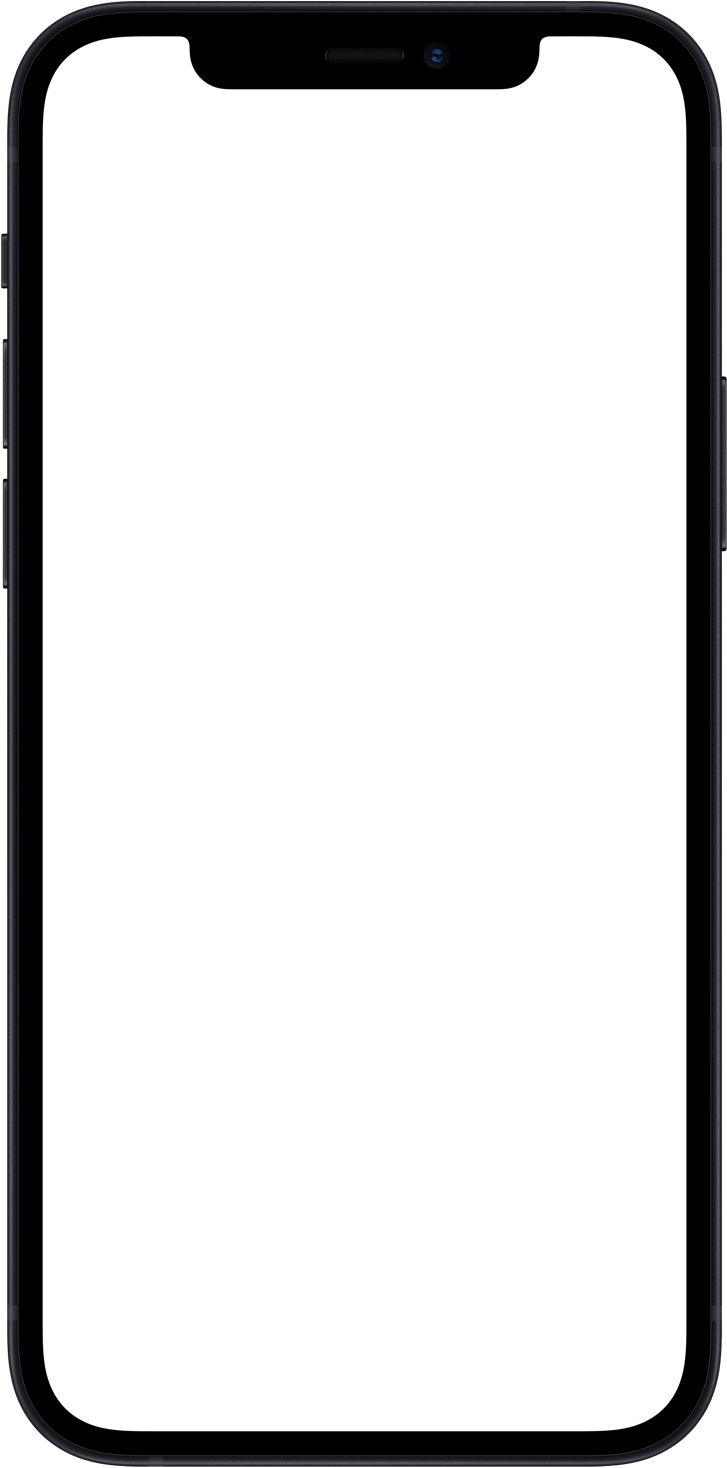
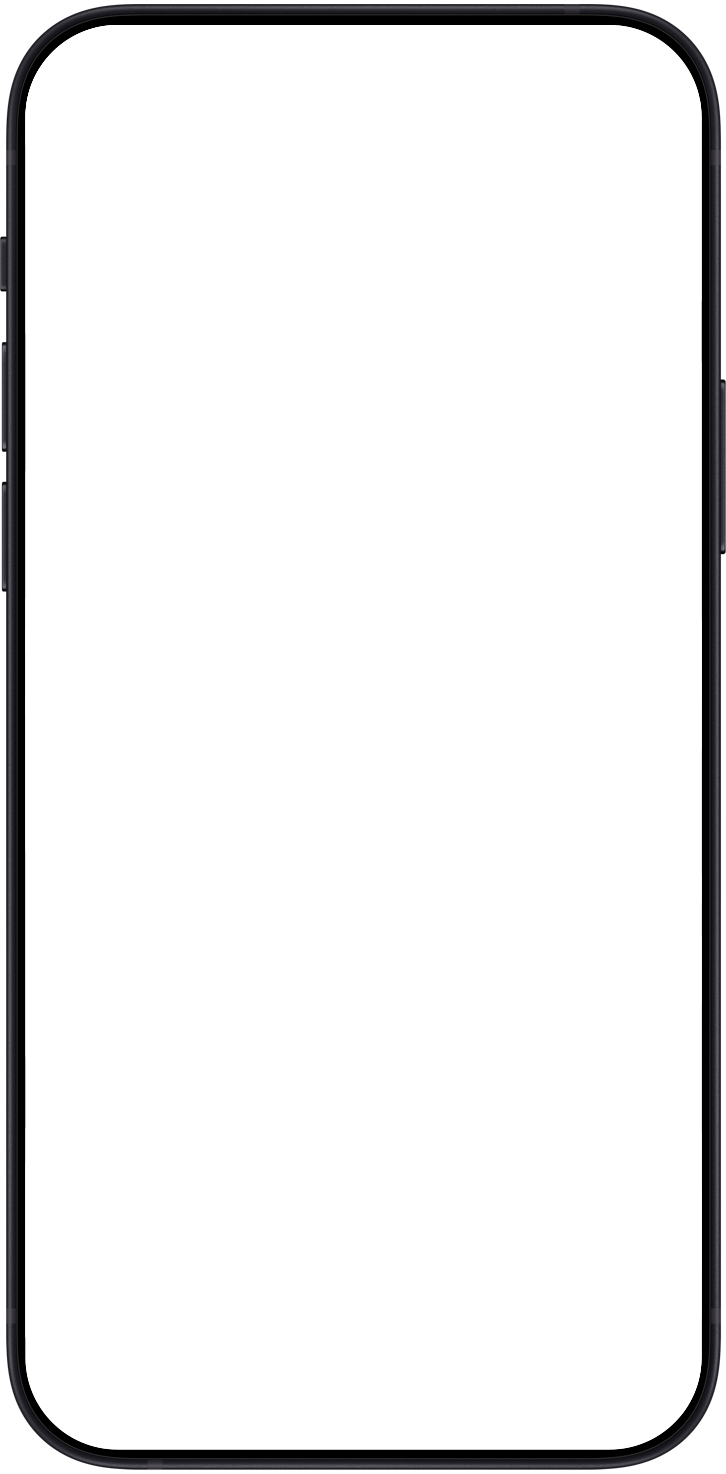
layout refine.

Changed region(s): [[0.0, 0.0, 0.9697, 1.0]]

diff --git a/lib/layout/layout.dart b/lib/layout/layout.dart
@@ -12,7 +12,7 @@ class Layout extends StatelessWidget {
       builder: (BuildContext context, BoxConstraints constraints) {
         if (isDisplayDesktop(context)) {
           return Container(
-            padding: EdgeInsets.all(30.0),
+            padding: EdgeInsets.all(constraints.maxHeight / 7.0),
             alignment: Alignment.center,
             decoration: BoxDecoration(
               image: DecorationImage(
@@ -26,9 +26,9 @@ class Layout extends StatelessWidget {
                 absorbIndex: 0,
                 children: <Widget>[
                   Padding(
-                    padding: EdgeInsets.all(constraints.maxHeight / 40.0),
+                    padding: EdgeInsets.all(constraints.maxHeight / 90.0),
                     child: ClipRRect(
-                      borderRadius: BorderRadius.all(Radius.circular(20.0)),
+                      borderRadius: BorderRadius.all(Radius.circular(constraints.maxHeight / 25.0)),
                       child: child,
                     ),
                   ),
